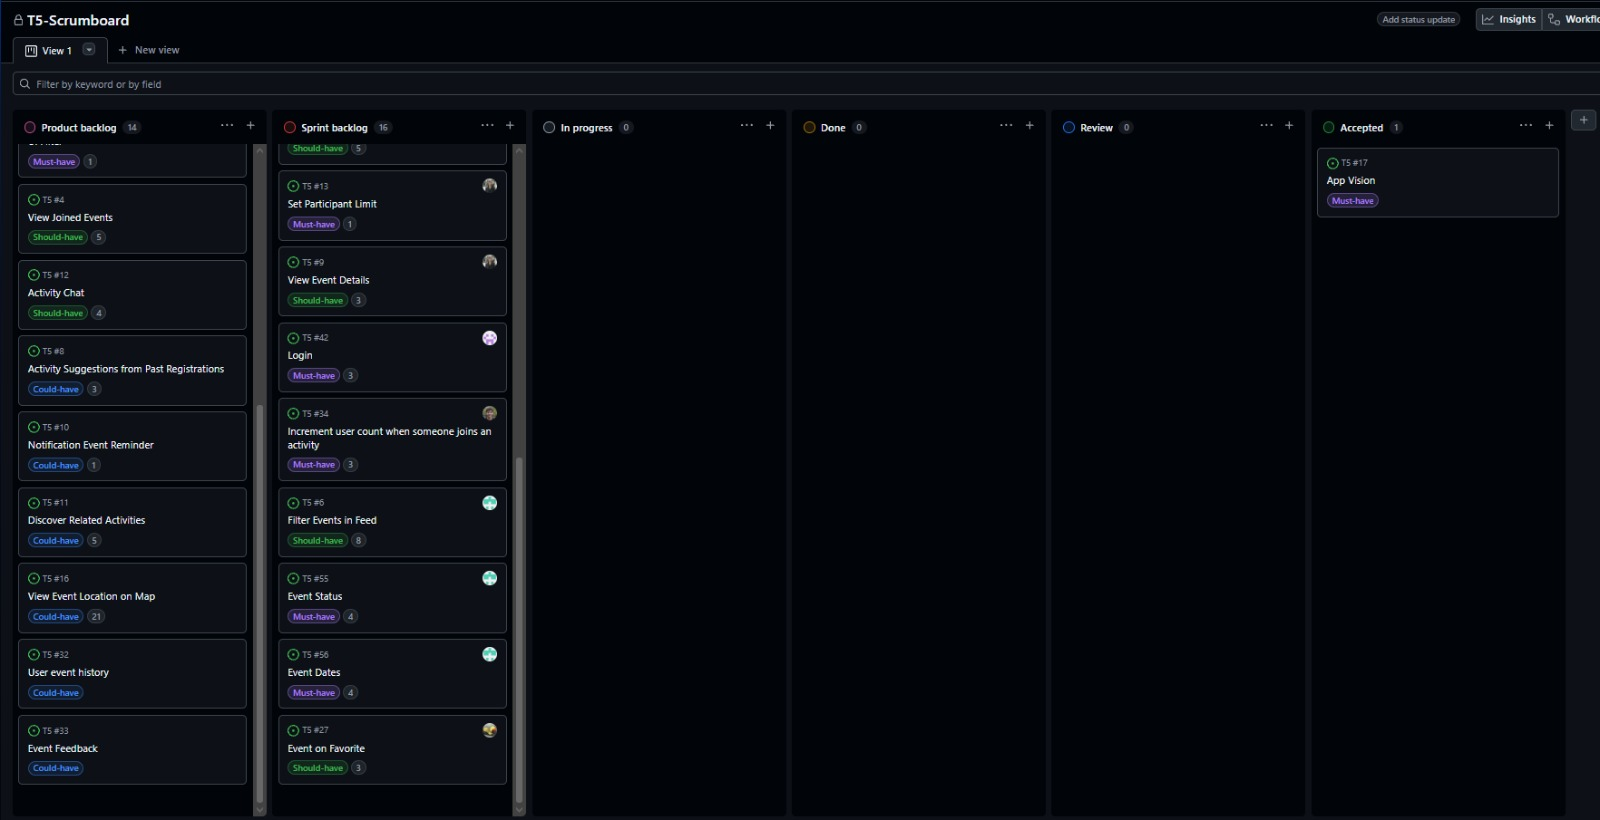
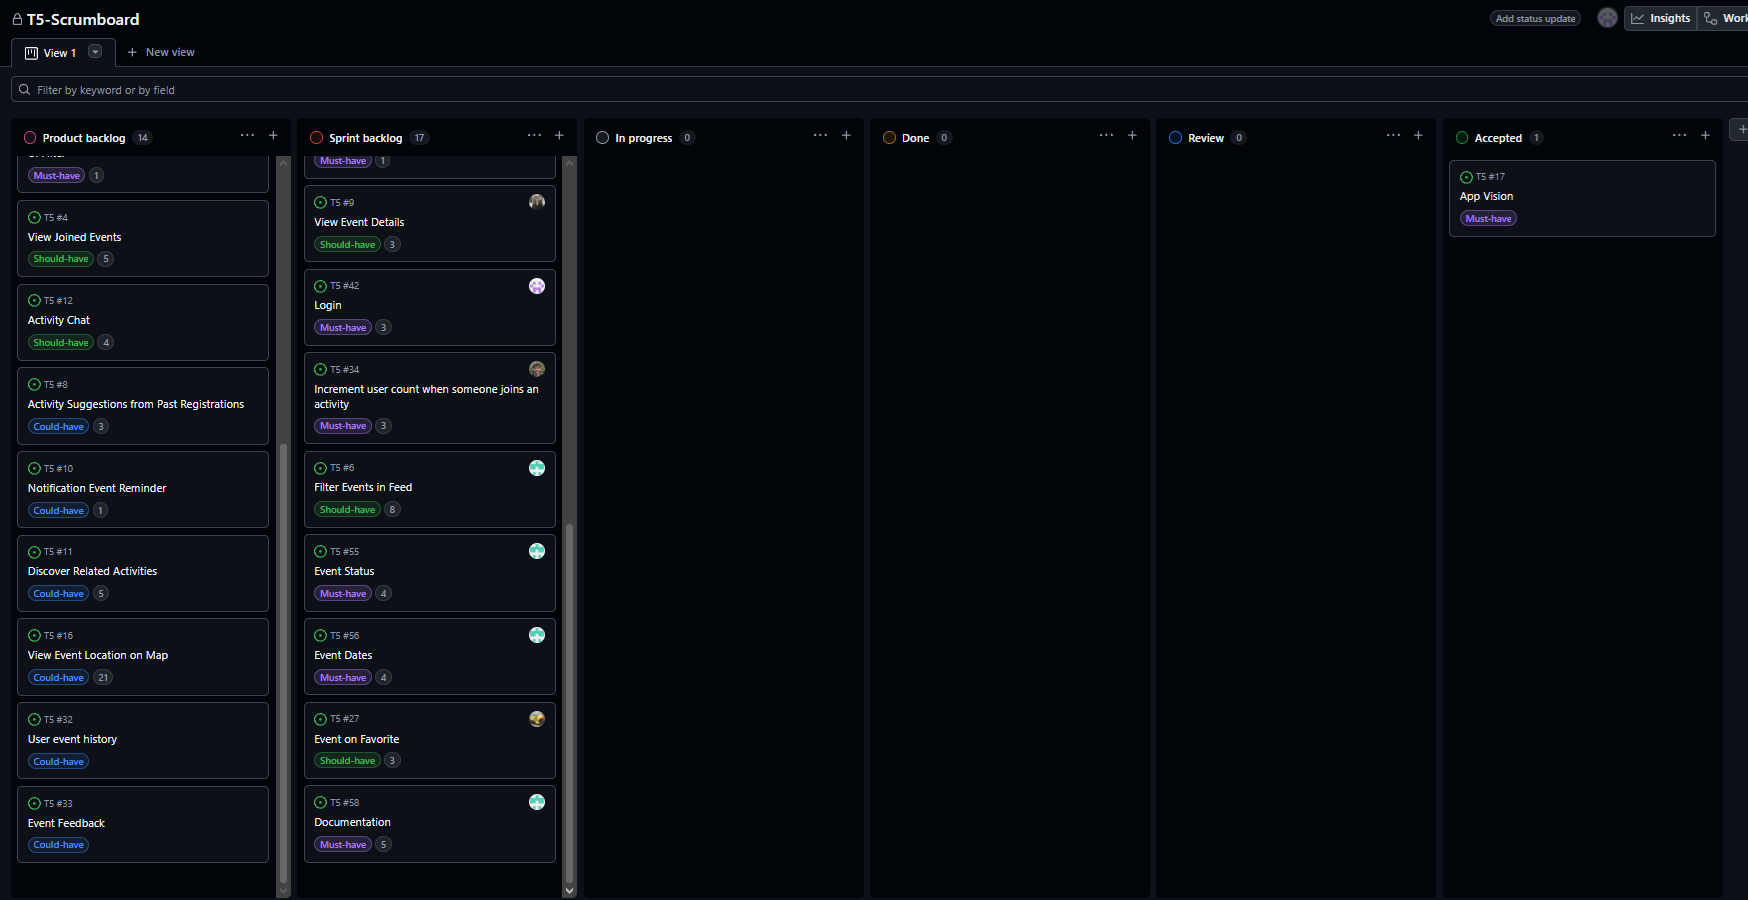
docs: finalize README and sprint 1 documentation

diff --git a/README.md b/README.md
@@ -98,6 +98,7 @@ The main functionalities include:
 - Creating humanitarian events
 - Browsing available events
 - Joining and leaving events
+- Favourite events
 - Managing events created by the user
 - Viewing event details and participants
 
@@ -251,6 +252,7 @@ The current prototype already supports the main user flows of the application:
 - Filter events based on multiple criteria (location, objectives, participants)
 - View event details
 - Join events
+- Favourite events
 
 The prototype also includes the following screens:
 - Home page – shows all available events
@@ -471,6 +473,7 @@ The application now allows users to:
 - Create and manage events
 - Filter events according to user preferences
 - Join and leave events
+- Favourite events
 - Interact with event properties such as participant limits, dates, and status
 
 This increment delivers value to end-users by enabling meaningful participation in environmental initiatives, directly supporting the product vision.

diff --git a/CHANGELOG.md b/CHANGELOG.md
@@ -24,6 +24,7 @@
 - Event filtering based on multiple criteria (objectives, participants, location)
 - Event details visualization
 - Join and leave event functionality
+- Favourite events
 - Event management features (delete event, set participant limits, define event dates and status)
 - Basic user features (login and account-related actions)
 
